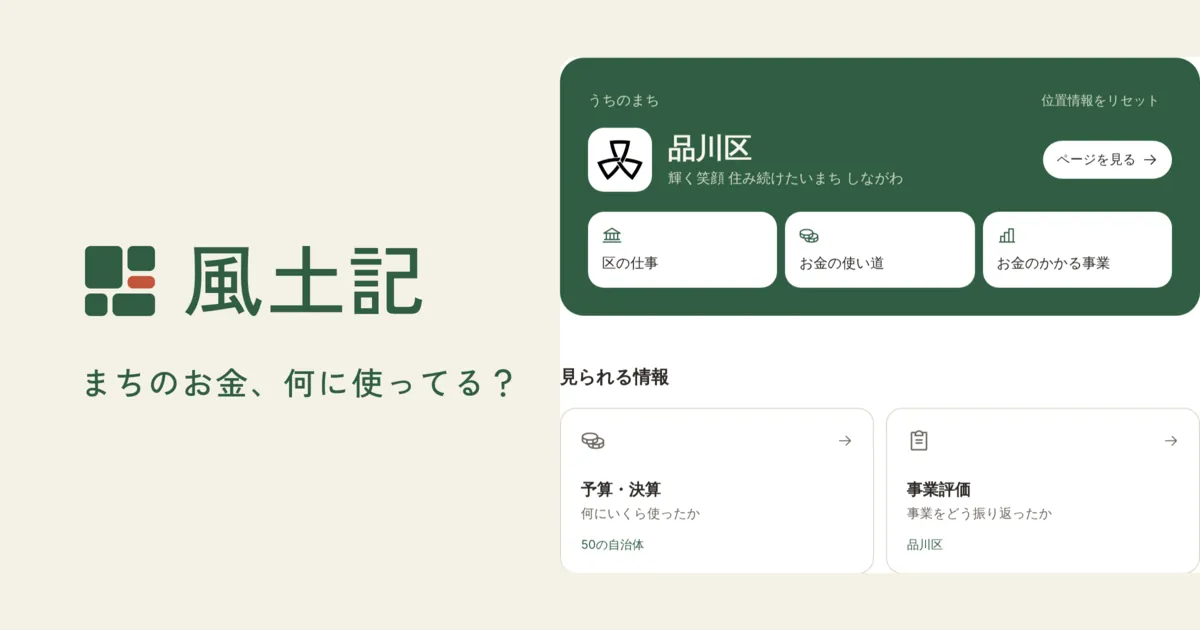
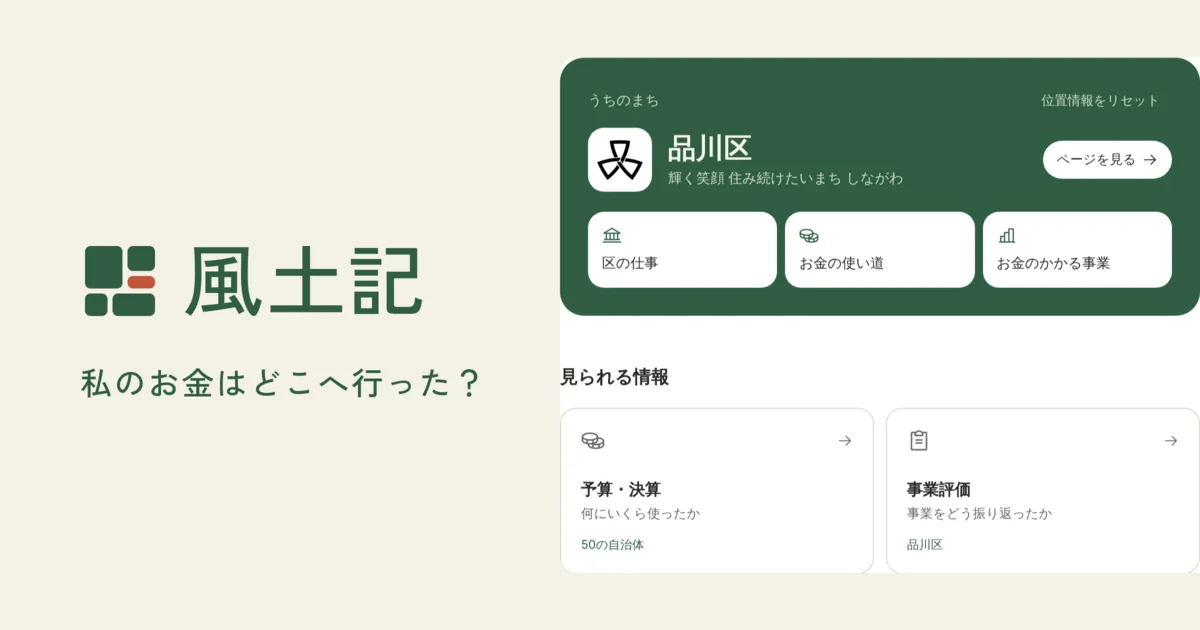
feat(web): 見出しを「私のお金はどこへ行った？」に変える (#529)
ホーム・/about・title・description・PWA・OG 画像・docs・README・AGENTS.md・DESIGN.md の
「まちのお金、何に使ってる？」を差し替え、og.png とデモのサムネを作り直す。

Claude-Session: https://claude.ai/code/session_01LjGAVf416vNA5QVYApwuzT

Changed region(s): [[0.0617, 0.573, 0.4317, 0.6333]]

diff --git a/apps/web/landing/landing.tsx b/apps/web/landing/landing.tsx
@@ -538,10 +538,10 @@ export function Landing() {
           <Dashes className="d-hero-r" />
           <p className="eyebrow">風土記</p>
           <h1>
-            まちのお金、
+            私のお金は
             <br />
             <span className="circled">
-              何に使ってる？
+              どこへ行った？
               <Circle />
             </span>
           </h1>
@@ -793,7 +793,7 @@ export function Landing() {
             <Link href="/" aria-label="風土記 ホーム">
               <svg className="logo" xmlns="http://www.w3.org/2000/svg" viewBox={`0 0 ${LOGO_WIDTH} 40`} role="img" aria-label="風土記" dangerouslySetInnerHTML={{ __html: `<title>風土記</title>${LOGO_G}` }} />
             </Link>
-            <p>まちのお金、何に使ってる？ 風土記は、自治体が何にいくら使い、どう振り返ったかを、事業ごとにわかりやすく見せるサイトです。ほかのまちと同じ物差しで比べられ、出典の資料まで辿れます。</p>
+            <p>私のお金はどこへ行った？ 風土記は、自治体が何にいくら使い、どう振り返ったかを、事業ごとにわかりやすく見せるサイトです。ほかのまちと同じ物差しで比べられ、出典の資料まで辿れます。</p>
           </div>
           <div>
             <h2>使う</h2>

diff --git a/apps/web/pages/about.server.ts b/apps/web/pages/about.server.ts
@@ -1,8 +1,8 @@
 // このサイトについて（/about）。本文は landing/landing.tsx が描く
 import { defineHandler, defineHead } from 'void'
 
-const TITLE = '風土記について — まちのお金、何に使ってる？'
-const DESCRIPTION = 'まちのお金、何に使ってる？ 風土記は、自治体が何にいくら使い、どう振り返ったかを、事業ごとにわかりやすく見せるサイトです。ほかのまちと同じ物差しで比べられ、出典の資料まで辿れます。'
+const TITLE = '風土記について — 私のお金はどこへ行った？'
+const DESCRIPTION = '私のお金はどこへ行った？ 風土記は、自治体が何にいくら使い、どう振り返ったかを、事業ごとにわかりやすく見せるサイトです。ほかのまちと同じ物差しで比べられ、出典の資料まで辿れます。'
 const ORGANIZATION = { '@context': 'https://schema.org', '@type': 'Organization', name: '風土記（fudoki）', url: 'https://fudoki.dev/', logo: 'https://fudoki.dev/icon.png', sameAs: ['https://github.com/fudoki-hensansitu', 'https://docs.fudoki.dev/'] }
 
 export const loader = defineHandler((c) => {

diff --git a/apps/web/pages/index.server.ts b/apps/web/pages/index.server.ts
@@ -7,8 +7,8 @@ import type { Env } from '../server/env'
 
 export type Props = HomeProps
 
-const TITLE = '風土記 — まちのお金、何に使ってる？'
-const DESCRIPTION = 'まちのお金、何に使ってる？ 風土記は、自治体が何にいくら使い、どう振り返ったかを、事業ごとにわかりやすく見せるサイトです。ほかのまちと同じ物差しで比べられ、出典の資料まで辿れます。'
+const TITLE = '風土記 — 私のお金はどこへ行った？'
+const DESCRIPTION = '私のお金はどこへ行った？ 風土記は、自治体が何にいくら使い、どう振り返ったかを、事業ごとにわかりやすく見せるサイトです。ほかのまちと同じ物差しで比べられ、出典の資料まで辿れます。'
 const ORGANIZATION = { '@context': 'https://schema.org', '@type': 'Organization', name: '風土記（fudoki）', url: 'https://fudoki.dev/', logo: 'https://fudoki.dev/icon.png', sameAs: ['https://github.com/fudoki-hensansitu', 'https://docs.fudoki.dev/'] }
 
 export const loader = defineHandler<Props>(async (c) => {

diff --git a/apps/web/pwa.ts b/apps/web/pwa.ts
@@ -3,9 +3,9 @@
 // service worker は「繋がらないときの案内」だけを持つ。会話・データは常に通信で取るので、頁も API もキャッシュしない
 import { BACKGROUND_DARK, BACKGROUND_LIGHT } from './tokens'
 export const MANIFEST = JSON.stringify({
-  name: '風土記（fudoki）— まちのお金、何に使ってる？',
+  name: '風土記（fudoki）— 私のお金はどこへ行った？',
   short_name: '風土記',
-  description: 'まちのお金、何に使ってる？ 風土記は、自治体が何にいくら使い、どう振り返ったかを、事業ごとにわかりやすく見せるサイトです。ほかのまちと同じ物差しで比べられ、出典の資料まで辿れます。',
+  description: '私のお金はどこへ行った？ 風土記は、自治体が何にいくら使い、どう振り返ったかを、事業ごとにわかりやすく見せるサイトです。ほかのまちと同じ物差しで比べられ、出典の資料まで辿れます。',
   lang: 'ja',
   start_url: '/',
   scope: '/',

diff --git a/apps/docs/blume.config.ts b/apps/docs/blume.config.ts
@@ -12,7 +12,7 @@ const operationRoutes = Object.values(spec.paths)
 
 export default defineConfig({
   title: '風土記 Docs',
-  description: 'まちのお金、何に使ってる？自治体の予算・決算・事業評価をわかりやすく見せ、オープンデータにする風土記を、MCP と REST で使うための文書。',
+  description: '私のお金はどこへ行った？ 自治体の予算・決算・事業評価をわかりやすく見せ、オープンデータにする風土記を、MCP と REST で使うための文書。',
   // ロゴは本体サイト（fudoki.dev）への戻り口にする。別の「サイトへ戻る」リンクは置かない
   logo: { image: { light: '/logo.svg', dark: '/logo-dark.svg', alt: '風土記' }, text: '', href: 'https://fudoki.dev/' },
   content: { root: 'content' },

diff --git a/apps/web/home/home.tsx b/apps/web/home/home.tsx
@@ -358,7 +358,7 @@ export function Home(props: HomeProps) {
   return (
     <main id="home" className="mx-auto w-full max-w-4xl px-4 pt-10 pb-28 sm:px-8 sm:pt-16">
       <header className="mb-6">
-        <h1 className="text-[26px] leading-[1.35] font-bold tracking-[0.02em] sm:text-[32px]">まちのお金、何に使ってる？</h1>
+        <h1 className="text-[26px] leading-[1.35] font-bold tracking-[0.02em] sm:text-[32px]">私のお金はどこへ行った？</h1>
         <p className="mt-1.5 text-[15px] text-muted-foreground">自治体が何にいくら使い、どう振り返ったかを、事業ごとに見られます。</p>
       </header>
       <MyTown {...props} />

diff --git a/apps/web/server/og.ts b/apps/web/server/og.ts
@@ -7,7 +7,7 @@ import { formatYen, reiwa } from '../jurisdiction/types'
 export const INK = '#2f5d43'
 const PAPER = '#f4f1e6'
 const TEXT = '#2b2723'
-const TAGLINE = 'まちのお金、何に使ってる？'
+const TAGLINE = '私のお金はどこへ行った？'
 export const OG_WIDTH = 1200
 export const OG_HEIGHT = 630
 const LEFT = 80

diff --git a/apps/web/brand/build.py b/apps/web/brand/build.py
@@ -119,7 +119,7 @@ for target in (ROOT / "apps/docs/public",):
 # OS の設定を追うファビコンと、画面の .dark で選ぶ SVG は分ける。
 # 画像内部の prefers-color-scheme は画面側のクラスを参照できない。
 OW, OH = 1200, 630
-TAGLINE = "まちのお金、何に使ってる？"
+TAGLINE = "私のお金はどこへ行った？"
 og_height = 100
 scale = og_height / H
 LEFT = 80

diff --git a/DESIGN.md b/DESIGN.md
@@ -180,7 +180,7 @@ shadcn/ui の語彙。色の役割は次のとおり。
 ```
 
 - **AI から使う**: 若草の札（角丸 28px）の中に、つなぎ方の手順と実際の操作の録画を並べる。録画は音なし・繰り返しで、表示域に入ったら再生する（クリックで止める・動きを減らす設定では自動で再生しない）。録画の下に「つなぎ方をくわしく見る」のリンクを置く
-- **紹介（`/about`）の構成**: 中央の見出し（「何に使ってる？」を手描きの丸で囲む・鉛筆の落書き）→ 下が切れた自治体の頁の画面と、タブで右半分と緑の札のボタンの色が替わる → 住民の問い → 若草の札3枚（使う・新しく始める・振り返る）→ 方眼の面に浮かぶ札（まちの一年＝予算を組む・使う・振り返る・見直す）と使う人の4列 → 比べる・確かめる → AI から使う → 議員・会派向けの予算・決算委員会の調査の相談 → FAQ → 中央の呼びかけ。地は薄い若草（#f6faf6）、札は濃い若草（#e4f1e6）に粒子と角丸 28px、画面のイメージは白で下を切る。色は landing.css の `.landing` の中だけで持ち、要の色はブランド色（`--primary`）。まだ無いデータ（事業評価の指標など）の画面は架空のデータで組み、「画面はイメージです」を添えて実在の自治体名を付けない
+- **紹介（`/about`）の構成**: 中央の見出し（「どこへ行った？」を手描きの丸で囲む・鉛筆の落書き）→ 下が切れた自治体の頁の画面と、タブで右半分と緑の札のボタンの色が替わる → 住民の問い → 若草の札3枚（使う・新しく始める・振り返る）→ 方眼の面に浮かぶ札（まちの一年＝予算を組む・使う・振り返る・見直す）と使う人の4列 → 比べる・確かめる → AI から使う → 議員・会派向けの予算・決算委員会の調査の相談 → FAQ → 中央の呼びかけ。地は薄い若草（#f6faf6）、札は濃い若草（#e4f1e6）に粒子と角丸 28px、画面のイメージは白で下を切る。色は landing.css の `.landing` の中だけで持ち、要の色はブランド色（`--primary`）。まだ無いデータ（事業評価の指標など）の画面は架空のデータで組み、「画面はイメージです」を添えて実在の自治体名を付けない
 - **出典の面**: 「確かめる」は、出典の PDF の切り抜きを `--page` の紙に載せ、API が返す印字の位置を朱の囲みで重ねる。例には金額が実際に入っている明細を選ぶ（0 円の科目は使わない）
 - **コピーに作業の記録を書かない**: 取得日・更新日・件数など、時点で変わる値や作業の経緯は画面に載せない
 - **自治体の個別ページ（`/:都道府県/:名称`）**: 見出し・金額・本文はすべて `--font-sans` のゴシック体にし、ロゴはホームと同じ SVG を使う。流れ図は全款・全項を初期表示し、目・節も全款を同じ深さへ展開する。グラフを主役にするため、データの面でもブランド色とアクセントを使う（Tokens の色の役割）。款・分野ごとの色分けはしない。数字は `shadcn/ui` の chart（recharts）と自前の流れ図で描き、収録していない年度は「未収録」と書く。API にまだ無い値（特色・将来推計）は仮の値で、数字の隣に「仮」を付け、検索エンジンへ渡す HTML には入れない

diff --git a/.agents/product-marketing.md b/.agents/product-marketing.md
@@ -7,7 +7,7 @@
 
 ## Product Overview
 
-**One-liner:** まちのお金、何に使ってる？
+**One-liner:** 私のお金はどこへ行った？
 **What it does:** 自治体が何にいくら使い、どう振り返ったかを、予算書・決算書・事業評価から事業の単位まで読み込み、区政・市政の知識がなくても読める頁にする。予算・決算の同じデータを出典つきで REST・MCP・オープンデータとして配り、ChatGPT や Claude からも聞ける（事業評価は API では資料の所在と短い抜粋の検索まで）。
 **Product category:** 自治体の予算・決算を調べる場所。検索では「◯◯区 予算」「◯◯市 決算書」「◯◯市 歳出」「令和◯年度 予算 ◯◯区」で探される
 **Product type:** 無料の Web サイト（fudoki.dev）＋ 公開 API・MCP（api.fudoki.dev）＋ ドキュメント（docs.fudoki.dev）

diff --git a/README.md b/README.md
@@ -5,7 +5,7 @@
 
 [ドキュメント](https://docs.fudoki.dev/) · [MCP で使う](https://docs.fudoki.dev/mcp) · [REST で使う](https://docs.fudoki.dev/rest) · [データの読み方](https://docs.fudoki.dev/data)
 
-**まちのお金、何に使ってる？**
+**私のお金はどこへ行った？**
 
 自治体のデータは公開されているのに、PDF か自治体ごとに形の違う CSV なので読みにくく、「この市はこの事業にいくら使っているか」を機械で引けず、市や年をまたいで比べることも事実上できない。
 風土記は、自治体の予算・決算・事業評価を**わかりやすく見せ**、**誰でも使えて、誰でも書き足せるオープンデータ**にする。見せるのは自治体ごとのページ、配るのは AI からそのまま問い合わせられる REST・MCP。

diff --git a/AGENTS.md b/AGENTS.md
@@ -1,6 +1,6 @@
 # 風土記
 
-**まちのお金、何に使ってる？** 自治体が何にいくら使い、どう振り返ったかを、事業の単位までわかりやすく見せ、同じデータをオープンデータとして配る。
+**私のお金はどこへ行った？** 自治体が何にいくら使い、どう振り返ったかを、事業の単位までわかりやすく見せ、同じデータをオープンデータとして配る。
 
 - **見せる**: 自治体ごとのページ（apps/web）。住民が「この町は何にいくら使っているか」を読める形にする
 - **配る**: 同じデータを出典つきで REST・MCP・オープンデータとして配る（apps/api）。誰でも無料で使える（商用での利用は利用規約の条件に従う）
